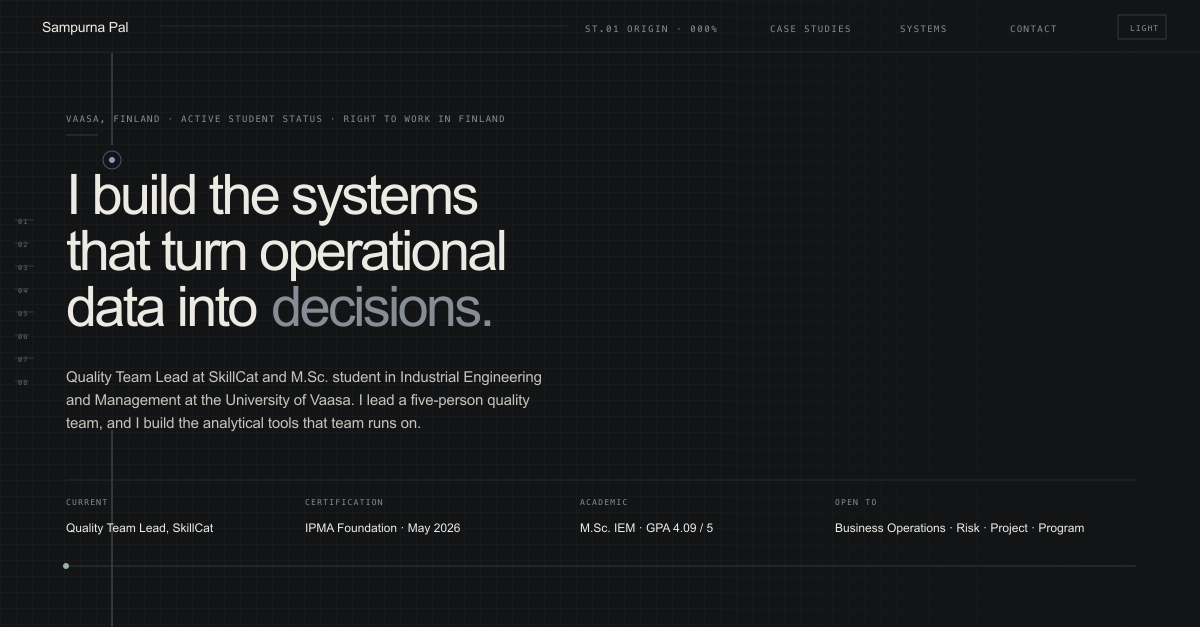
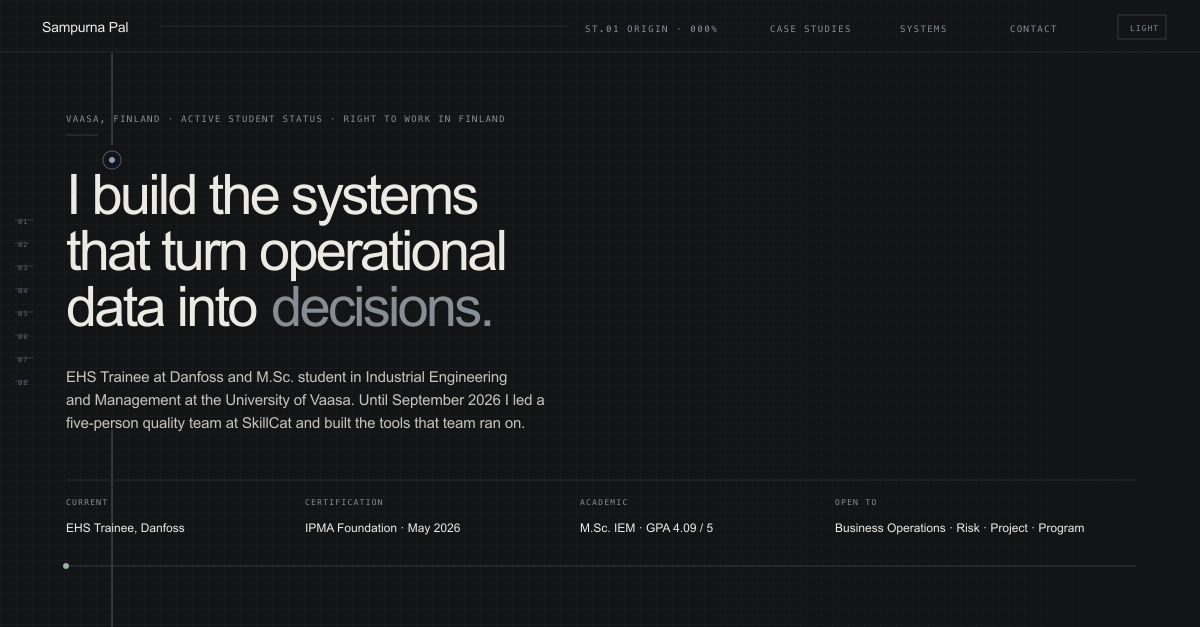
feat: add the Danfoss EHS traineeship and close out SkillCat
- Danfoss EHS Trainee (Oct 2026) as current role in hero, experience,
  meta and OG image
- SkillCat entry ends Sep 2026; bullets, systems section and dashboard
  card moved to past tense; drop the Cohort 2 note and the dashboard
  link offer
- ABB case: individual project, first person

Changed region(s): [[0.0617, 0.5758, 0.4625, 0.697], [0.0617, 0.8182, 0.185, 0.8485]]

diff --git a/index.html b/index.html
@@ -3,11 +3,11 @@
 <head>
 <meta charset="utf-8">
 <meta name="viewport" content="width=device-width, initial-scale=1">
-<meta name="description" content="Sampurna Pal. Quality Team Lead at SkillCat and M.Sc. student in Industrial Engineering and Management at the University of Vaasa. Operations and quality systems.">
+<meta name="description" content="Sampurna Pal. EHS Trainee at Danfoss and M.Sc. student in Industrial Engineering and Management at the University of Vaasa. Operations and quality systems.">
 <meta property="og:type" content="website">
 <meta property="og:url" content="https://sampurnapalportfolio.vercel.app/">
 <meta property="og:title" content="Sampurna Pal — Systems and Operations">
-<meta property="og:description" content="Quality Team Lead and M.Sc. student in Industrial Engineering and Management, building operations and quality systems.">
+<meta property="og:description" content="EHS Trainee at Danfoss and M.Sc. student in Industrial Engineering and Management, building operations and quality systems.">
 <meta property="og:image" content="https://sampurnapalportfolio.vercel.app/og-image.png">
 <meta property="og:image:width" content="1200">
 <meta property="og:image:height" content="627">
@@ -850,11 +850,11 @@ svg.dg g.hot:hover .ha{ opacity:.5; }
     <h1 class="hero-title" id="heroTitle">I build the systems that turn operational data into <em>decisions.</em></h1>
 
     <p class="hero-lede rv">
-      Quality Team Lead at SkillCat and M.Sc. student in Industrial Engineering and Management at the University of Vaasa, with an IPMA Foundation certificate in project management. I lead a five-person quality team, and I build the analytical tools that team runs on.
+      EHS Trainee at Danfoss and M.Sc. student in Industrial Engineering and Management at the University of Vaasa, with an IPMA Foundation certificate in project management. Until September 2026 I led a five-person quality team at SkillCat and built the analytical tools that team ran on.
     </p>
 
     <dl class="hero-meta rv">
-      <div><dt class="mono">Current</dt><dd>Quality Team Lead, SkillCat</dd></div>
+      <div><dt class="mono">Current</dt><dd>EHS Trainee, Danfoss</dd></div>
       <div><dt class="mono">Certification</dt><dd>IPMA Foundation, May 2026</dd></div>
       <div><dt class="mono">Academic</dt><dd>M.Sc. IEM, GPA 4.09 / 5 · 86 ECTS</dd></div>
       <div><dt class="mono">Open to</dt><dd>Business Operations, Risk, Project, Program</dd></div>
@@ -944,30 +944,39 @@ svg.dg g.hot:hover .ha{ opacity:.5; }
     <div class="sec-head">
       <div class="sec-tag mono"><i></i>ST.03 / Experience</div>
       <div>
-        <h2>Two years in quality at SkillCat, after three on daily deadlines.</h2>
-        <p class="sub">Remote, cross-functional, and usually starting from a blank sheet.</p>
+        <h2>Now in EHS at Danfoss, after two years in quality at SkillCat.</h2>
+        <p class="sub">Cross-functional, and usually starting from a blank sheet.</p>
       </div>
     </div>
 
     <div class="tl">
       <article class="tl-row">
-        <div class="tl-when mono">Nov 2024 –<br>Present</div>
+        <div class="tl-when mono">Oct 2026 –<br>Present</div>
+        <div class="tl-what">
+          <h3>EHS Trainee</h3>
+          <div class="org">Danfoss. Environment, health and safety. Started October 2026.</div>
+        </div>
+        <div class="tl-span"><div class="bar-track"><div class="bar-fill" style="--w:.06;--dl:0ms"></div></div><small>Current</small></div>
+      </article>
+
+      <article class="tl-row">
+        <div class="tl-when mono">Nov 2024 –<br>Sep 2026</div>
         <div class="tl-what">
           <h3>Quality Team Lead</h3>
           <div class="org">SkillCat, remote. Skilled-trades e-learning, 400,000+ tradespeople trained. Promoted from Content Quality Analyst (Jan 2026).</div>
           <ul>
-            <li>Lead a team of 5 across quality assurance, content operations, and digitization.</li>
-            <li>Designed and own the SkillMap Cohort 1 Tracker (79 candidates, closed August 2026). Cohort 2 starts mid-November 2026.</li>
+            <li>Led a team of 5 across quality assurance, content operations, and digitization.</li>
+            <li>Designed and owned the SkillMap Cohort 1 Tracker (79 candidates, closed August 2026).</li>
             <li>Built a 30-day, 5-department onboarding framework from scratch.</li>
             <li>Developed a 15-stage course production QA pipeline, Master Checklist v1.05, through 5+ revisions.</li>
-            <li>Report to leadership weekly through a live Looker Studio dashboard that consolidates the team's quality-ticket data.</li>
+            <li>Reported to leadership weekly through a live Looker Studio dashboard that consolidated the team's quality-ticket data.</li>
             <li>Ran ad-hoc audits across 2,000+ questions in 8 flagship courses, correcting faulty items, closing a PPE-labeling gap with a hazard-symbol fix, and rewriting duplicate BSP questions into situational formats.</li>
-            <li>Facilitate daily team check-ins and end-of-day reviews, 3 to 4 weekly working sessions on active initiatives, and two weeks of daily onboarding sessions for every new hire.</li>
+            <li>Facilitated daily team check-ins and end-of-day reviews, 3 to 4 weekly working sessions on active initiatives, and two weeks of daily onboarding sessions for every new hire.</li>
             <li>Pushed back on a proposal for full deadline automation from the Chief of Staff and recommended a manual-review dashboard with a bulk-fail action instead.</li>
             <li>Tested and evaluated AI agent performance for slide digitization and SME tracking workflows.</li>
           </ul>
         </div>
-        <div class="tl-span"><div class="bar-track"><div class="bar-fill" style="--w:1;--dl:0ms"></div></div><small>Team of 5</small></div>
+        <div class="tl-span"><div class="bar-track"><div class="bar-fill" style="--w:1;--dl:160ms"></div></div><small>Team of 5</small></div>
       </article>
 
       <article class="tl-row">
@@ -1247,9 +1256,9 @@ svg.dg g.hot:hover .ha{ opacity:.5; }
         <div class="case-id mono"><b>Case 03</b>TUTA3240<br>Supply Chain Design<br>Grade 5 / 5</div>
         <div>
           <h3>ABB Hurricane packaging optimisation</h3>
-          <div class="ctx mono">400 SKUs · 30+ box types · Team project · Industry brief from ABB</div>
-          <p class="body">ABB packs its Hurricane switches, 400 models from 1.5 to 95 kg, by hand into more than 30 corrugated box types. Our team visited ABB, took the dimensions and weights for every switch and box pair, and calculated the void percentage for each. Several box families ran at 50 to 74% empty space.</p>
-          <p class="body">We proposed two concepts. The first is a height-adjustable box with pre-scored crease lines, which also lets two near-identical box families share one footprint. The second is a kirigami honeycomb insert cut from flat corrugated sheet, replacing loose filler. Combined, we estimated about 12% less packaging weight (10% less corrugated board per box, 30% fewer inserts) and roughly 0.3 kg CO2e saved per unit, in a mono-material design aligned with the upcoming PPWR.</p>
+          <div class="ctx mono">400 SKUs · 30+ box types · Individual project · Industry brief from ABB</div>
+          <p class="body">ABB packs its Hurricane switches, 400 models from 1.5 to 95 kg, by hand into more than 30 corrugated box types. After a visit to ABB, I took the dimensions and weights for every switch and box pair and calculated the void percentage for each. Several box families ran at 50 to 74% empty space.</p>
+          <p class="body">I proposed two concepts. The first is a height-adjustable box with pre-scored crease lines, which also lets two near-identical box families share one footprint. The second is a kirigami honeycomb insert cut from flat corrugated sheet, replacing loose filler. Combined, I estimated about 12% less packaging weight (10% less corrugated board per box, 30% fewer inserts) and roughly 0.3 kg CO2e saved per unit, in a mono-material design aligned with the upcoming PPWR.</p>
         </div>
       </div>
 
@@ -1307,7 +1316,7 @@ svg.dg g.hot:hover .ha{ opacity:.5; }
 
             <path class="ln thin dw" d="M20 306 H 900"/>
             <text class="fd" x="20" y="330">400 SWITCH MODELS · 30+ BOX TYPES · 1.5 TO 95 kg</text>
-            <text class="fd" x="20" y="346">TUTA3240 · TEAM PROJECT · SITE VISIT TO ABB</text>
+            <text class="fd" x="20" y="346">TUTA3240 · INDIVIDUAL PROJECT · SITE VISIT TO ABB</text>
           </svg>
         </div>
       </div>
@@ -1490,8 +1499,8 @@ svg.dg g.hot:hover .ha{ opacity:.5; }
     <div class="sec-head">
       <div class="sec-tag mono"><i></i>ST.06 / Systems</div>
       <div>
-        <h2>What the team actually runs on.</h2>
-        <p class="sub">Onboarding, course production, QA, and reporting are four views of the same network. Every hire, every course, and every ticket moves through the same set of nodes.</p>
+        <h2>What the SkillCat team ran on.</h2>
+        <p class="sub">Onboarding, course production, QA, and reporting are four views of the same network. Every hire, every course, and every ticket moved through the same set of nodes.</p>
       </div>
     </div>
 
@@ -1514,7 +1523,7 @@ svg.dg g.hot:hover .ha{ opacity:.5; }
           <div class="spec">
             <div>
               <h4>Onboarding system</h4>
-              <p>A 30-day framework spanning instructional design, visual design, QA, digitization, and all-teams. Every hire tracked through it has hit 100% on-time completion at every weekly checkpoint.</p>
+              <p>A 30-day framework spanning instructional design, visual design, QA, digitization, and all-teams. Every hire tracked through it hit 100% on-time completion at every weekly checkpoint.</p>
             </div>
             <div class="flag mono">100% on time</div>
           </div>
@@ -1528,9 +1537,9 @@ svg.dg g.hot:hover .ha{ opacity:.5; }
           <div class="spec">
             <div>
               <h4>QFT Trends dashboard</h4>
-              <p>A live Looker Studio dashboard consolidating the team's quality-ticket data, reviewed with leadership weekly. Shared as a live link rather than static figures.</p>
+              <p>A live Looker Studio dashboard consolidating the team's quality-ticket data, reviewed with leadership weekly.</p>
             </div>
-            <div class="flag mono hold">Link on request</div>
+            <div class="flag mono hold">Internal</div>
           </div>
           <div class="spec">
             <div>
@@ -1683,7 +1692,7 @@ svg.dg g.hot:hover .ha{ opacity:.5; }
 
       <div class="tb-cell wide">
         <dt>Available on request</dt>
-        <dd style="color:var(--ink-2)">Live QFT trends dashboard link · 35-page factory cell simulation report · ABB packaging optimisation slide deck</dd>
+        <dd style="color:var(--ink-2)">35-page factory cell simulation report · ABB packaging optimisation slide deck</dd>
       </div>
     </dl>
 
